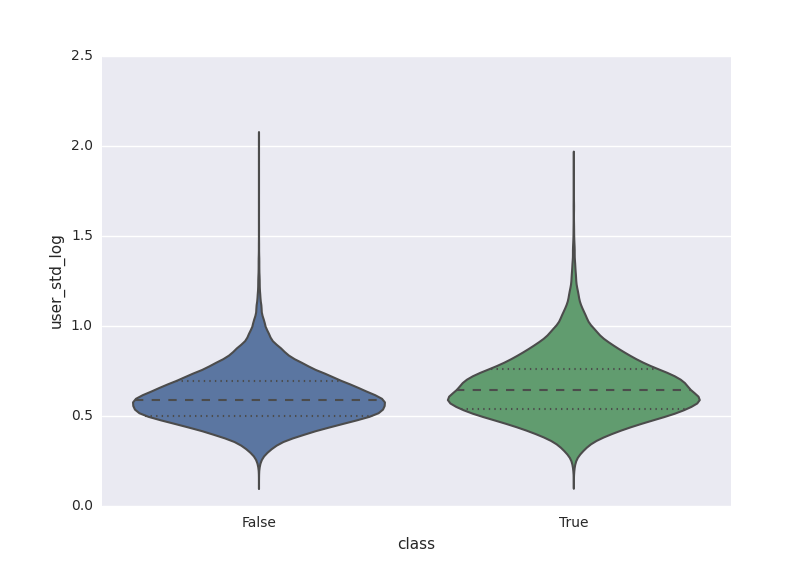
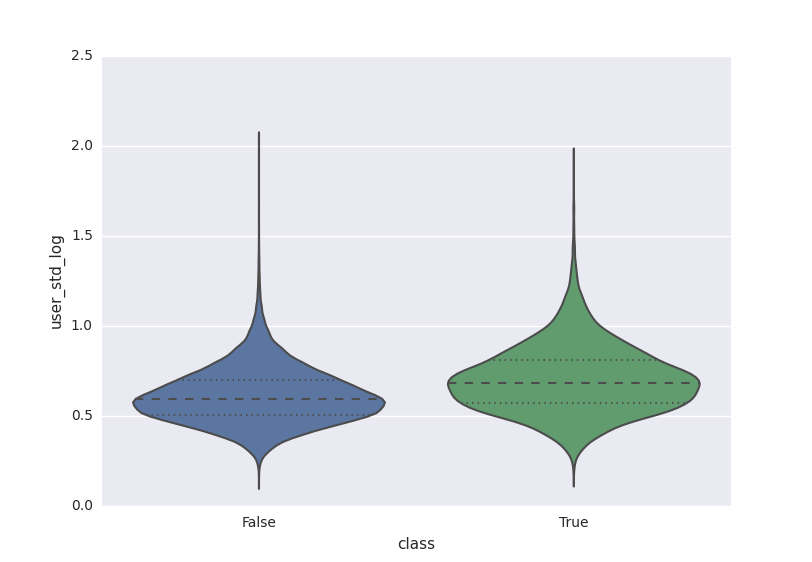
more results

diff --git a/response_times/reponser_times.py b/response_times/reponser_times.py
@@ -30,7 +30,7 @@ def get_answers(from_csv=False, sample=False, min_answers_per_item=0, min_answer
     return answers
 
 
-def mark_class_room_users(answers, classroom_size=5):
+def mark_class_room_users(answers, classroom_size=20):
     classroom_users = [
         user
         for ip, users in (
@@ -245,7 +245,7 @@ split_by_mean_time(answers)
 # compare_speed_and_accuracy(answers)
 # compare_speed_and_feedback(answers)
 # compare_speed_and_difficulty(answers)
-# compare_speed_and_class(answers)
+compare_speed_and_class(answers)
 # compare_speed_and_answers(answers, time=True)
 # compare_speed_and_std(answers)
 # rs_by_concept(answers, "data/maps-types.json")
@@ -254,8 +254,8 @@ split_by_mean_time(answers)
 # rs_distribution(answers, "first_feedback")
 
 # answers["difficulty_groups"] = answers["difficulty"].apply(round)
-# rs_distribution(answers, "difficulty_groups")
-std_distribution(answers)
+# rs_distribution(answers)
+# std_distribution(answers)
 # std_distribution(answers, "class")
 # std_distribution(answers, "first_feedback")
 
